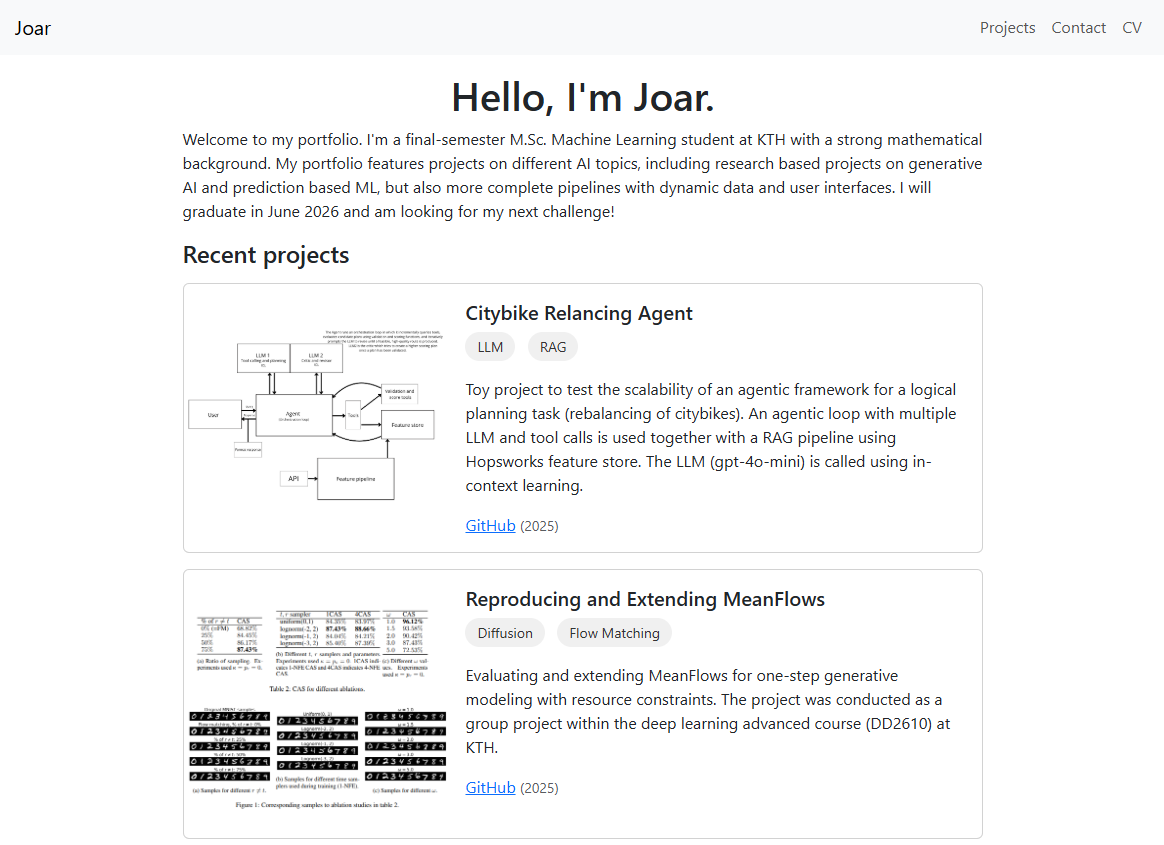
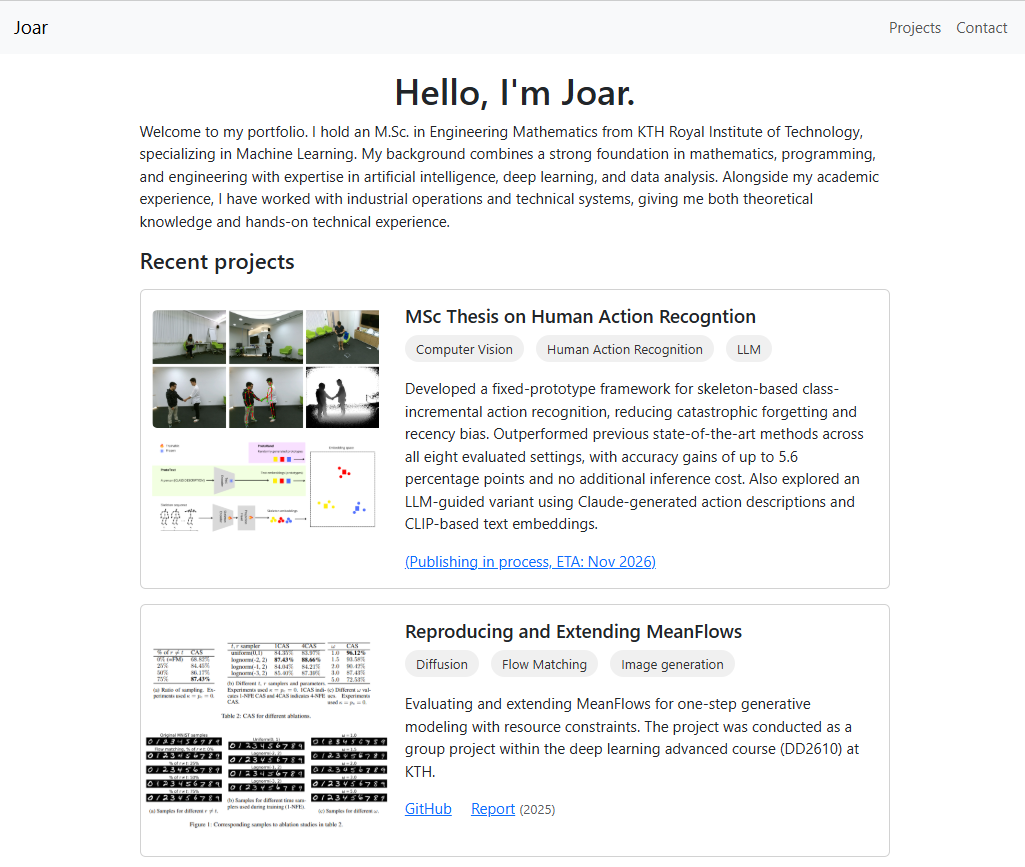
new project

diff --git a/index.html b/index.html
@@ -57,6 +57,28 @@
       height: auto;
     }
   }
+
+  .project-card-large {
+  height: auto;          /* let the card grow to fit its content */
+  min-height: 320px;     /* adjust to taste */
+}
+
+.project-card-large .img-stack {
+  display: flex;
+  flex-direction: column;   /* stack images vertically */
+  gap: 0.75rem;
+  padding: 0.75rem;
+  width: 100%;
+}
+
+.project-card-large .img-stack img {
+  width: 100%;
+  height: auto;
+}
+
+.card-link + .card-link {
+    margin-left: 0.5rem; 
+    }
 </style>
 
 <body>
@@ -86,24 +108,28 @@
   <div class="main-content mx-auto" style="max-width: 800px;">
     
       <div class="mt-3 d-flex justify-content-center"><h1>Hello, I'm Joar.</h1></div>
-<p class="below-header"> Welcome to my portfolio. I'm a final-semester M.Sc. Machine Learning student at KTH with a strong mathematical background. My portfolio features projects on different AI topics, including research based projects on generative AI and prediction based ML, but also more complete pipelines with dynamic data and user interfaces.</p>
+<p class="below-header"> Welcome to my portfolio. I hold an M.Sc. in Engineering Mathematics from KTH Royal Institute of Technology, specializing in Machine Learning. My background combines a strong foundation in mathematics, programming, and engineering with expertise in artificial intelligence, deep learning, and data analysis. Alongside my academic experience, I have worked with industrial operations and technical systems, giving me both theoretical knowledge and hands-on technical experience.</p>
     
     <div class="mb-3" id="Projects"><h4>Recent projects</h4></div>
 
-      <div class="card mb-3 project-card">
+      <div class="card mb-3 project-card project-card-large">
         <div class="row g-0 h-100">
           <div class="col-4 d-flex align-items-center">
-            <img src="assets/citybike_agentic_structure.png" class="img-fluid rounded-start" alt="...">
+            <div class="img-stack">
+              <img src="assets/action_recognition.png" class="img-fluid rounded-start" alt="Action recognition example">
+              <img src="assets/framework_overview.png" class="img-fluid rounded-start" alt="Framework overview">
+            </div>
           </div>
           <div class="col-8">
             <div class="card-body">
-              <h5 class="card-title">Citybike Relancing Agent</h5>
+              <h5 class="card-title">MSc Thesis on Human Action Recogntion</h5>
               <div class="mb-2 d-none d-md-block">
+                <span class="project-tag">Computer Vision </span>
+                <span class="project-tag">Human Action Recognition</span>
                 <span class="project-tag">LLM</span>
-                <span class="project-tag">RAG</span>
               </div>
-              <p class="card-text">Toy project to test the scalability of an agentic framework for a logical planning task (rebalancing of citybikes). An agentic loop with multiple LLM and tool calls is used together with a RAG pipeline using Hopsworks feature store.  The LLM (gpt-4o-mini) is called using in-context learning.</p>
-              <a class="card-link" href="https://github.com/joarp/citybike-rebalancing-agent" target="_blank">GitHub</a> <small class="text-body-secondary">(2025)</small>
+              <p class="card-text">Developed a fixed-prototype framework for skeleton-based class-incremental action recognition, reducing catastrophic forgetting and recency bias. Outperformed previous state-of-the-art methods across all eight evaluated settings, with accuracy gains of up to 5.6 percentage points and no additional inference cost. Also explored an LLM-guided variant using Claude-generated action descriptions and CLIP-based text embeddings.</p>
+              <a class="card-link" href="https://www.diva-portal.org/" target="_blank">(Publishing in process, ETA: Nov 2026)</a>
             </div>
           </div>
         </div>
@@ -123,7 +149,7 @@
                 <span class="project-tag">Image generation</span>
               </div>
               <p class="card-text">Evaluating and extending MeanFlows for one-step generative modeling with resource constraints. The project was conducted as a group project within the deep learning advanced course (DD2610) at KTH.</p>
-              <a class="card-link" href="https://github.com/joarp/meanflow-reproducibility" target="_blank">GitHub</a> <small class="text-body-secondary">(2025)</small>
+              <a class="card-link" href="https://github.com/joarp/meanflow-reproducibility" target="_blank">GitHub</a><a class="card-link" href="https://joarp.github.io/portfolio/pdf_meanflow/" target="_blank">Report</a> <small class="text-body-secondary">(2025)</small>
             </div>
           </div>
         </div>
@@ -139,6 +165,25 @@
               <h5 class="card-title">BSc Thesis</h5>
               <p class="card-text">With the title "Forecasting Solar Energy Production in Stockholm Using Tree-based Machine Learning Algorithms" I used weather data from SMHI to predict solar energy output from one of Stockholm stads photovoltaic plants.</p>
               <a class="card-link" href="https://www.diva-portal.org/smash/record.jsf?pid=diva2%3A1877838&dswid=2989" target="_blank">Publication</a> <small class="text-body-secondary">(2024)</small>
+            </div>
+          </div>
+        </div>
+      </div>
+
+      <div class="card mb-3 project-card">
+        <div class="row g-0 h-100">
+          <div class="col-4 d-flex align-items-center">
+            <img src="assets/citybike_agentic_structure.png" class="img-fluid rounded-start" alt="...">
+          </div>
+          <div class="col-8">
+            <div class="card-body">
+              <h5 class="card-title">Citybike Relancing Agent</h5>
+              <div class="mb-2 d-none d-md-block">
+                <span class="project-tag">LLM</span>
+                <span class="project-tag">RAG</span>
+              </div>
+              <p class="card-text">Project to test the scalability of an agentic framework for a logical planning task (rebalancing of citybikes). An agentic loop with multiple LLM and tool calls is used together with a RAG pipeline using Hopsworks feature store.  The LLM (gpt-4o-mini) is called using in-context learning.</p>
+              <a class="card-link" href="https://github.com/joarp/citybike-rebalancing-agent" target="_blank">GitHub</a> <small class="text-body-secondary">(2025)</small>
             </div>
           </div>
         </div>
